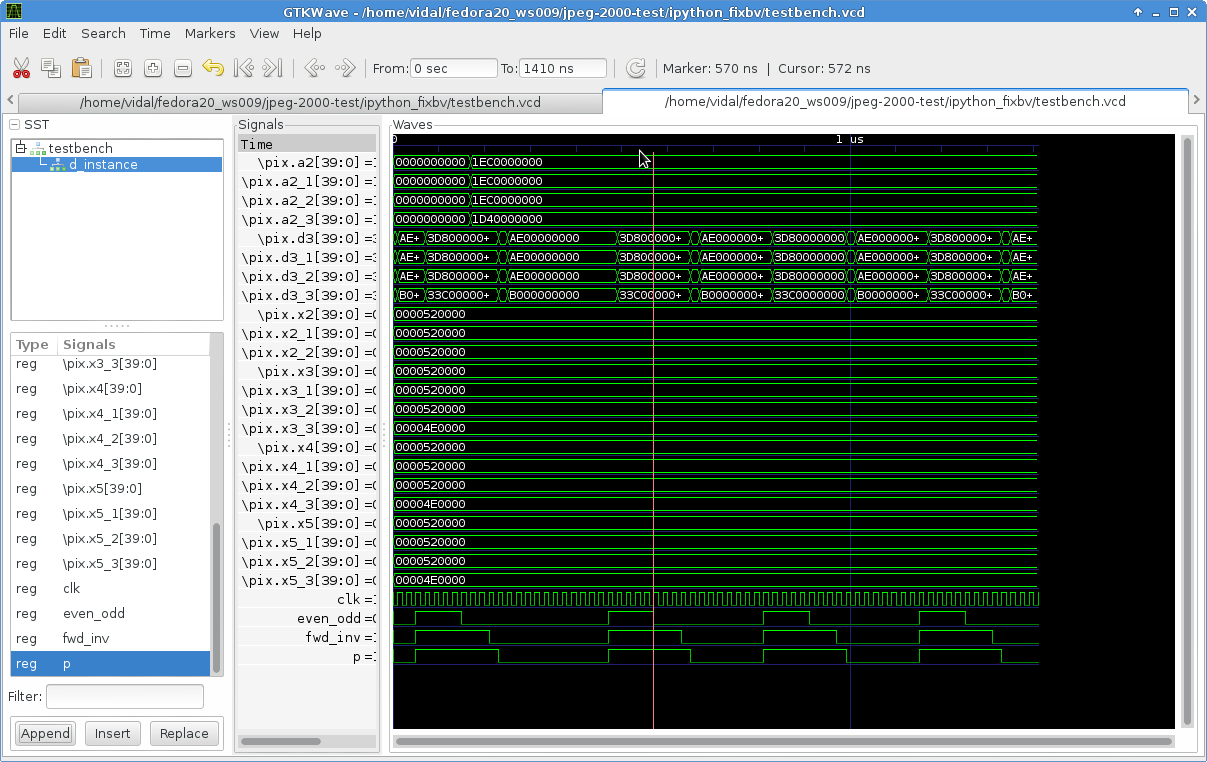
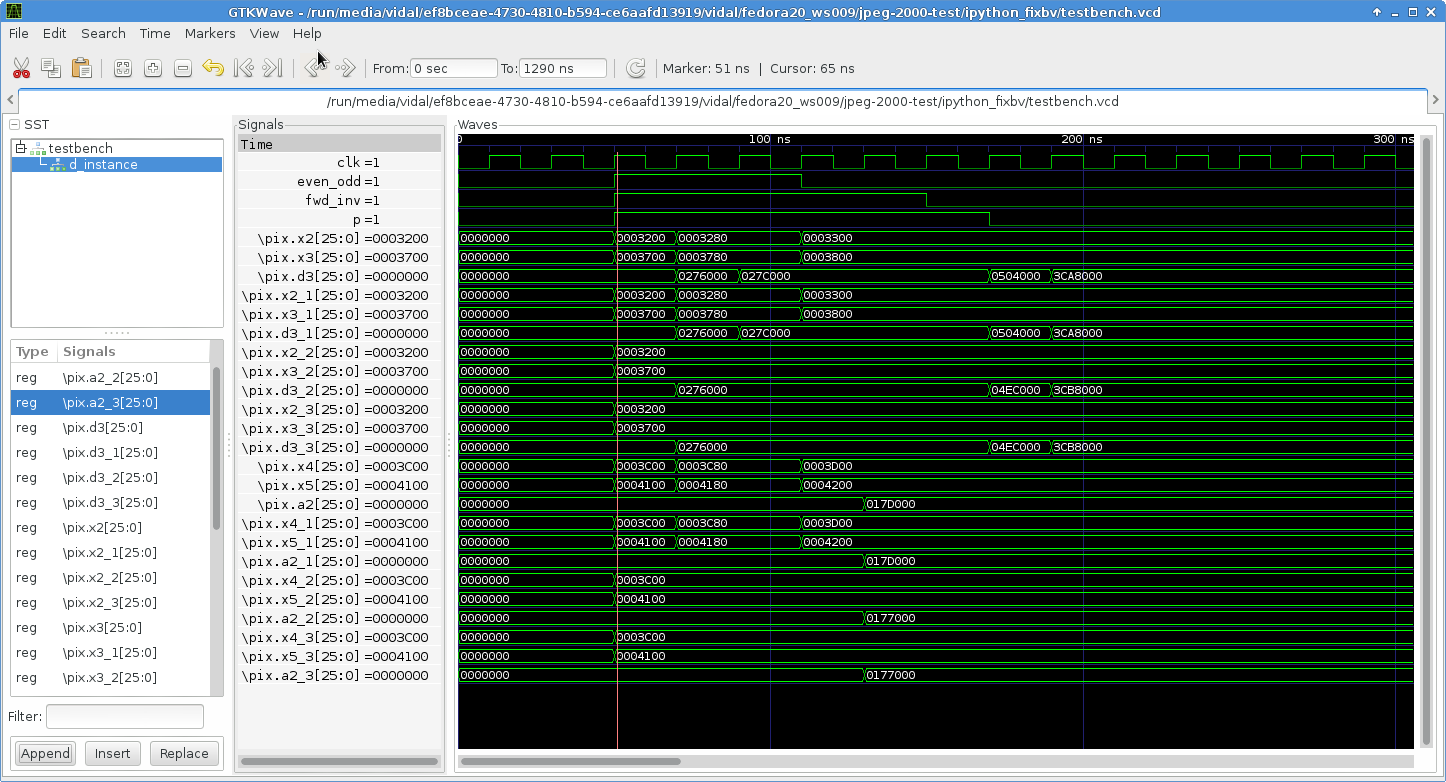
Now able to chg the values of x2, x3, x4, and x5 x2_1, x3_1, x4_1, and x5_1 x2_2, x3_2, x4_2, and x5_2 x2_3, x3_3, x4_3, and x5_3 new png of simulation

diff --git a/ipython_fixbv/mult_sig.py b/ipython_fixbv/mult_sig.py
@@ -21,25 +21,25 @@ class MyObj(object):
 	
 	def __init__(self):
 		ww = (26,18)
-		self.x2 = Signal(fixbv(1)[ww])
-		self.x3 = Signal(fixbv(2)[ww])
-		self.x4 = Signal(fixbv(3)[ww])
-		self.x5 = Signal(fixbv(4)[ww])
+		self.x2 = Signal(fixbv(0)[ww])
+		self.x3 = Signal(fixbv(0)[ww])
+		self.x4 = Signal(fixbv(0)[ww])
+		self.x5 = Signal(fixbv(0)[ww])
 		
-		self.x2_1 = Signal(fixbv(164)[ww])
-		self.x3_1 = Signal(fixbv(164)[ww])
-		self.x4_1 = Signal(fixbv(164)[ww])
-		self.x5_1 = Signal(fixbv(164)[ww])
+		self.x2_1 = Signal(fixbv(0)[ww])
+		self.x3_1 = Signal(fixbv(0)[ww])
+		self.x4_1 = Signal(fixbv(0)[ww])
+		self.x5_1 = Signal(fixbv(0)[ww])
 		
-		self.x2_2 = Signal(fixbv(164)[ww])
-		self.x3_2 = Signal(fixbv(164)[ww])
-		self.x4_2 = Signal(fixbv(164)[ww])
-		self.x5_2 = Signal(fixbv(164)[ww])
+		self.x2_2 = Signal(fixbv(0)[ww])
+		self.x3_2 = Signal(fixbv(0)[ww])
+		self.x4_2 = Signal(fixbv(0)[ww])
+		self.x5_2 = Signal(fixbv(0)[ww])
 
-		self.x2_3 = Signal(fixbv(120)[ww])
-		self.x3_3 = Signal(fixbv(156)[ww])
-		self.x4_3 = Signal(fixbv(156)[ww])
-		self.x5_3 = Signal(fixbv(156)[ww])
+		self.x2_3 = Signal(fixbv(0)[ww])
+		self.x3_3 = Signal(fixbv(0)[ww])
+		self.x4_3 = Signal(fixbv(0)[ww])
+		self.x5_3 = Signal(fixbv(0)[ww])
 
 		self.d3 = Signal(fixbv(0)[ww])
 		self.a2 = Signal(fixbv(0)[ww])
@@ -69,17 +69,56 @@ class MyObj(object):
 	
 	def setSig_x2(self,val): 
 		ww = (26,18)   
-		self.x2 = Signal(fixbv(val)[ww]) 
+		self.x2.next = Signal(fixbv(val)[ww]) 
 	def setSig_x3(self,val):
 		ww = (26,18)    
-		self.x3 = Signal(fixbv(val)[ww])
+		self.x3.next = Signal(fixbv(val)[ww])
 	def setSig_x4(self,val): 
 		ww = (26,18)   
-		self.x4 = Signal(fixbv(val)[ww]) 
+		self.x4.next = Signal(fixbv(val)[ww]) 
 	def setSig_x5(self,val):
 		ww = (26,18)    
-		self.x5 = Signal(fixbv(val)[ww])		     
+		self.x5.next = Signal(fixbv(val)[ww])		     
 
+	def setSig_x2_1(self,val): 
+		ww = (26,18)   
+		self.x2_1.next = Signal(fixbv(val)[ww]) 
+	def setSig_x3_1(self,val):
+		ww = (26,18)    
+		self.x3_1.next = Signal(fixbv(val)[ww])
+	def setSig_x4_1(self,val): 
+		ww = (26,18)   
+		self.x4_1.next = Signal(fixbv(val)[ww]) 
+	def setSig_x5_1(self,val):
+		ww = (26,18)    
+		self.x5_1.next = Signal(fixbv(val)[ww])
+	
+	def setSig_x2_2(self,val): 
+		ww = (26,18)   
+		self.x2_2.next = Signal(fixbv(val)[ww]) 
+	def setSig_x3_2(self,val):
+		ww = (26,18)    
+		self.x3_2.next = Signal(fixbv(val)[ww])
+	def setSig_x4_2(self,val): 
+		ww = (26,18)   
+		self.x4_2.next = Signal(fixbv(val)[ww]) 
+	def setSig_x5_2(self,val):
+		ww = (26,18)    
+		self.x5_2.next = Signal(fixbv(val)[ww])
+	
+	def setSig_x2_3(self,val): 
+		ww = (26,18)   
+		self.x2_3.next = Signal(fixbv(val)[ww]) 
+	def setSig_x3_3(self,val):
+		ww = (26,18)    
+		self.x3_3.next = Signal(fixbv(val)[ww])
+	def setSig_x4_3(self,val): 
+		ww = (26,18)   
+		self.x4_3.next = Signal(fixbv(val)[ww]) 
+	def setSig_x5_3(self,val):
+		ww = (26,18)    
+		self.x5_3.next = Signal(fixbv(val)[ww])
+					
 	"""Get variables d3,d3_1,d3_2,d3_3
 	Get variables a2,a2_1,a2_2,a2_3"""
     
@@ -192,18 +231,60 @@ def testbench():
 	def stimulus():
 		for i in range(3):
 			yield clk.posedge
-		for n in (12, 8, 8, 4):
+		for n in (18, 8, 8, 4):
 			even_odd.next = True
 			fwd_inv.next = True
 			p.next = True
-			 
-			for i in range(5):
-				yield clk.posedge
-			even_odd.next = False
+			pix.setSig_x2(100)
+			pix.setSig_x3(110)
+			pix.setSig_x4(120)
+			pix.setSig_x5(130)
 
- 
+			pix.setSig_x2_1(100)
+			pix.setSig_x3_1(110)
+			pix.setSig_x4_1(120)
+			pix.setSig_x5_1(130)
+
+			pix.setSig_x2_2(100)
+			pix.setSig_x3_2(110)
+			pix.setSig_x4_2(120)
+			pix.setSig_x5_2(130)
+			
+			pix.setSig_x2_3(100)
+			pix.setSig_x3_3(110)
+			pix.setSig_x4_3(120)
+			pix.setSig_x5_3(130)
+  			
+    
+			for i in range(2):
+				yield clk.posedge
+				
+				pix.setSig_x2(101)
+				pix.setSig_x3(111)
+				pix.setSig_x4(121)
+				pix.setSig_x5(131)
+				
+				pix.setSig_x2_1(101)
+				pix.setSig_x3_1(111)
+				pix.setSig_x4_1(121)
+				pix.setSig_x5_1(131)
+
+				
+  
 			for i in range(3):
 				yield clk.posedge
+				even_odd.next = False
+				pix.setSig_x2(102)
+				pix.setSig_x3(112)
+				pix.setSig_x4(122)
+				pix.setSig_x5(132)
+				
+				pix.setSig_x2_1(102)
+				pix.setSig_x3_1(112)
+				pix.setSig_x4_1(122)
+				pix.setSig_x5_1(132)
+
+ 
 			fwd_inv.next = False
 			for i in range(2):
 				yield clk.posedge
@@ -246,7 +327,6 @@ fwd_inv, even_odd, p, clk = set_ctl()
 
 
 convert(1,1)
-
 
 
 tb_fsm = traceSignals(testbench)
